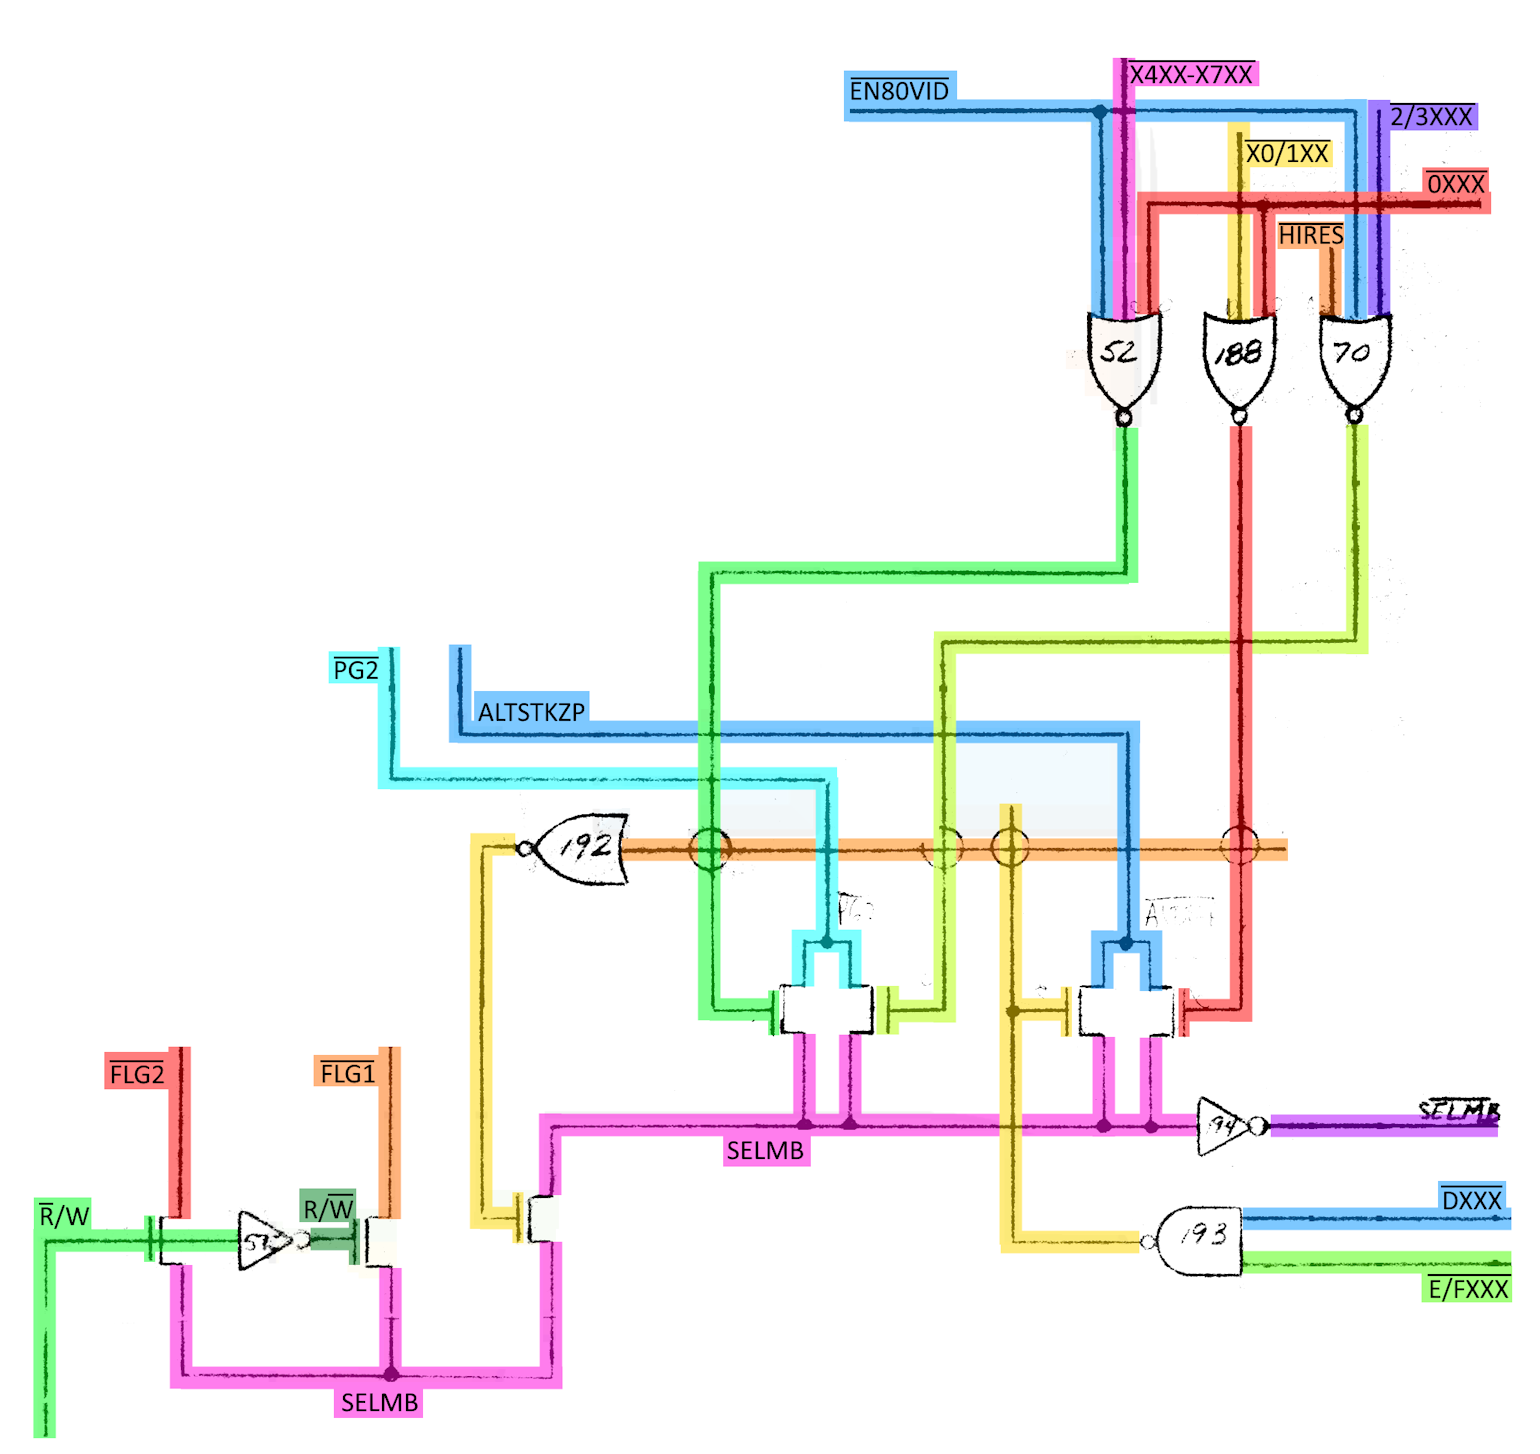
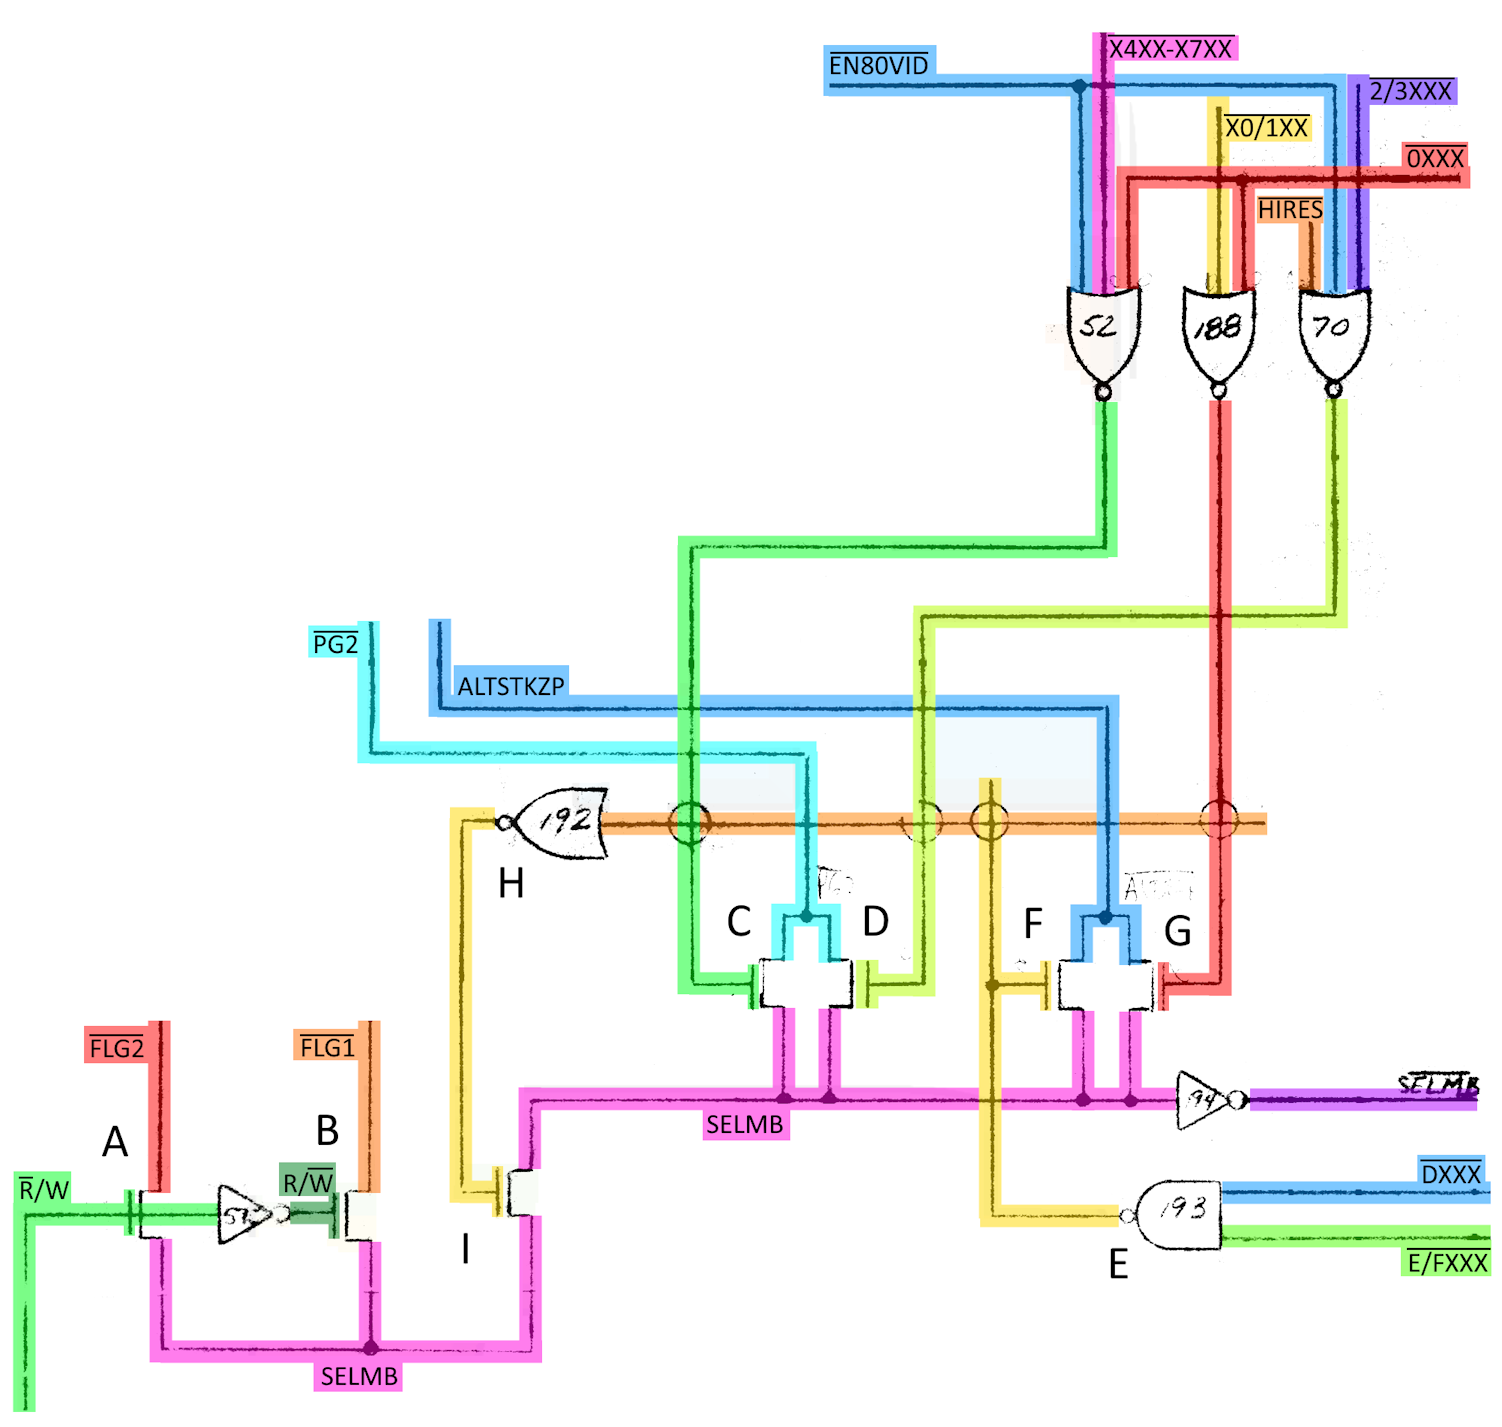
ROM RAM Done

Changed region(s): [[0.0, 0.0, 1.0, 1.0]]

diff --git a/Documentation/Understanding_IOU_MMU/mmu-rom-ram.md b/Documentation/Understanding_IOU_MMU/mmu-rom-ram.md
@@ -4,8 +4,13 @@
 
 The MMU generates several signals that control the access to the C-D ROM, E-F ROM, the motherboard RAM, and the AUX Card RAM.
 
-## CASEN_N and R_W_N_245
-### PCASEN_N, OCASEN_N, and R_W_N_245
+## R_W_N_245 and CASEN_N
+
+### Description
+
+These two signals are related to the data bus. R_W_N_245 controls the direction of the bidirectional peripheral data bus driver (a LS245), and CASEN_N prevent CAS_N from falling during PHASE_0 when the motherboard RAM is not read or written.
+
+### R_W_N_245, PCASEN_N and OCASEN_N
 <a align="center" href="/Schematics/MMU_1.jpg">
     <img src="/resources/PCASEN_N__R_W_N_245.png" style="width: 720px"/>
 </a>
@@ -13,26 +18,30 @@ The MMU generates several signals that control the access to the C-D ROM, E-F RO
 Hand-written notes on the schematics above:<br/>
 <br/>
 Below PCASEN_N:
-```
+<pre>
 Turns off HIGH - CXXX
                  INH
                  Read ROM
                  Write to Lang. Card W/WR PROT SET
-```
+</pre>
 <br/>
 Below OCASEN_N:
-```
+<pre>
 R.C020-C0FF  Access = '1"
   C000-C01F  Access = '0'
   C800       "      = '0'
-```
+</pre>
 <br/>
 Below R_W_N_245:
-```
+<pre>
 if not(DMA) then Rd*CXXXOUT*INTIO_N
-```
+</pre>
 <br/>
+
 > **Note:** In the transistor-level schematics, OCASEN is forced LOW on MPON. Here that means OCASEN_N is forced HIGH on MPON_N.
+
+
+PCASEN_N is used in the generation of EN80_N and OCASEN_N, and OCASEN_N is used to generate CASEN_N.
 
 ### CASEN_N
 <a align="center" href="/Schematics/MMU_1.jpg">
@@ -40,7 +49,7 @@ if not(DMA) then Rd*CXXXOUT*INTIO_N
 </a>
 <p><i>MMU_1, @B-1</i></p>
 
-The bonding option `64K` in this repository is a constant HIGH, therefore CASEN_N is the same as OCASEN_N.
+The bonding option `64K` in this repository is a constant HIGH, therefore CASEN_N is the same as OCASEN_N. When HIGH, CASEN_N (CAS ENable) prevent CAS_N from falling during PHASE_0 when the motherboard RAM is not read or written.
 
 ## ROMEN1_N and ROMEN2_N
 <a align="center" href="/Schematics/MMU_2.jpg">
@@ -51,18 +60,41 @@ The bonding option `64K` in this repository is a constant HIGH, therefore CASEN_
 ROMEN1_N and ROMEN2_N remains HIGH unless the MMU determines that the address on the bus targets one of the two ROM chip. When that happens, the MMU drives LOW the corresponding ROMEN_N signal. See "Understanding the Apple IIe" by Jim Sather p.5-28 and p.6-2. Note in the above schematics ROMEN1_N has INH hand-drawn and ROMEN2_N has no link to INH. In "Understanding the Apple IIe" by Jim Sather p.5-30 point 9, and in the transistor-level schematics, these two signals can be seen to be gated by INH.
 
 ## SELMB_N and EN80_N
+### SELMB_N
 <a align="center" href="/Schematics/MMU_2.jpg">
     <img src="/resources/SELMB_N_LOGIC.png" style="width: 720px"/>
 </a>
 <p><i>MMU_2, @C-3 to B-1</i></p>
 
 Hand-written notes next to SELMB_N:<br/>
-```
+<pre>
 When HIGH turns off CAS
      LOW            SELMB
-```
+</pre>
 <br/>
+This signal indicates whether the motherboard RAM (SELMB_N LOW) or the AUX RAM (SELMB_N HIGH) is used
 The generation of SELMB_N is very complex in the logic-level schematics (and possibly incorrect). The transistor-level schematics, on the other hand, is much simpler. This repository uses this latter version.
 <a align="center" href="/Schematics/MMU_ASIC.jpg">
     <img src="/resources/SELMB_N_TRANSISTOR.png" style="width: 720px"/>
 </a>
+
+SELMB_N is generated through a 'wired-or' chain.
+| Location<br/>in schematic | Description |
+| --- | --- |
+| A | The transistor will conduct FLG2 (also called RAMWRT) if it's a write operation. It switches between motherboard RAM (FLG2 = '0') and AUX RAM (FLG2 = '1') |
+| B | The transistor will conduct FLG1 (also called RAMRD) if it's a read operation. It switches between motherboard RAM (FLG1 = '0') and AUX RAM (FLG1 = '1') |
+| C | The transistor will conduct /PG2 when accessing primary display range ($0400-$07FF) while EN80VID is set. PG2 switches between motherboard RAM (PG2 = '0') and AUX RAM (PG2 = '1') |
+| D | The transistor will conduct /PG2 when accessing HIRES display range ($2000-$3FFF) while EN80VID and HIRES are set. PG2 switches between motherboard RAM (PG2 = '0') and AUX RAM (PG2 = '1') |
+| E | A LOW at the output of this NAND gate signify that the address is in the range $D000-$FFFF. |
+| F | The transistor will conduct ALTSTKZP when the address is in the range $D000-$FFFF. ALTSTKZP switches the $0000-$01FF and the $D000-$FFFF range between motherboard RAM (ALTSTKZP = '0') and AUX RAM (ALTSTKZP = '1') |
+| G | The transistor will conduct ALTSTKZP when the address is in the range $0000-$01FF. ALTSTKZP switches the $0000-$01FF and the $D000-$FFFF range between motherboard RAM (ALTSTKZP = '0') and AUX RAM (ALTSTKZP = '1') |
+| H & I | The transistor will only conduct when none of the C-D-F-G conditions are met. This essentially selects between the A-B part of the circuit, or the C-D-F-G part. |
+
+### EN80_N
+<a align="center" href="/Schematics/MMU_2.jpg">
+    <img src="/resources/EN80_N.png" style="width: 520px"/>
+</a>
+<p><i>MMU_2, @C-1</i></p>
+
+For a description of EN80_N, see "Understanding the Apple IIe" by Jim Sather p.5-3 section "RAM CONNECTIONS IN THE APPLE IIe".
+
